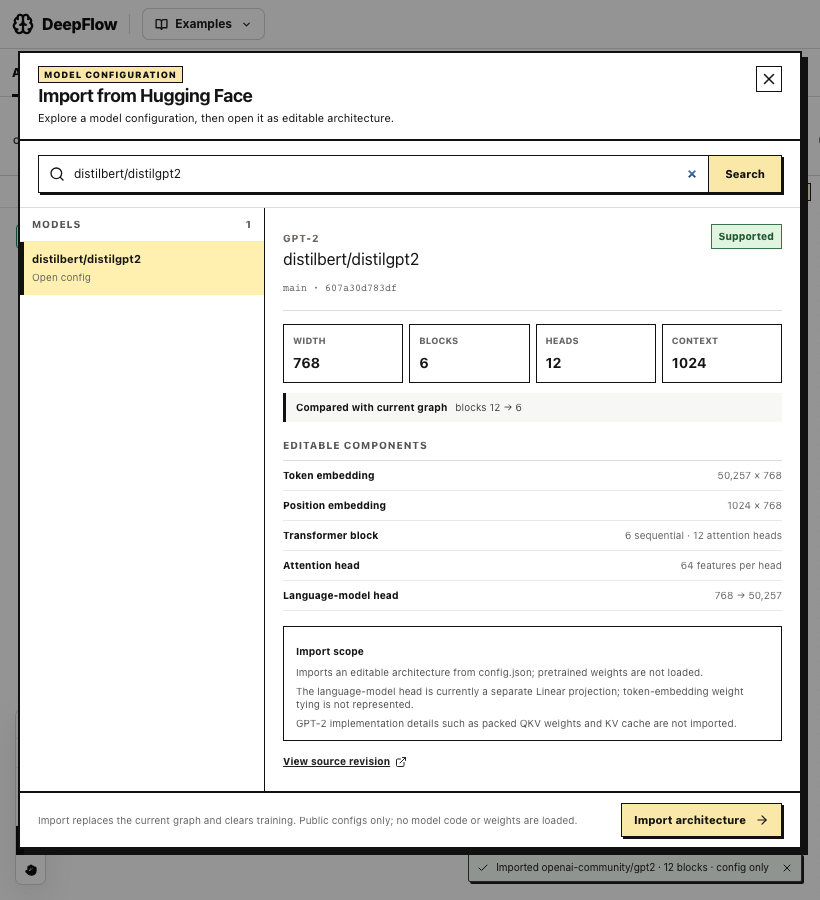
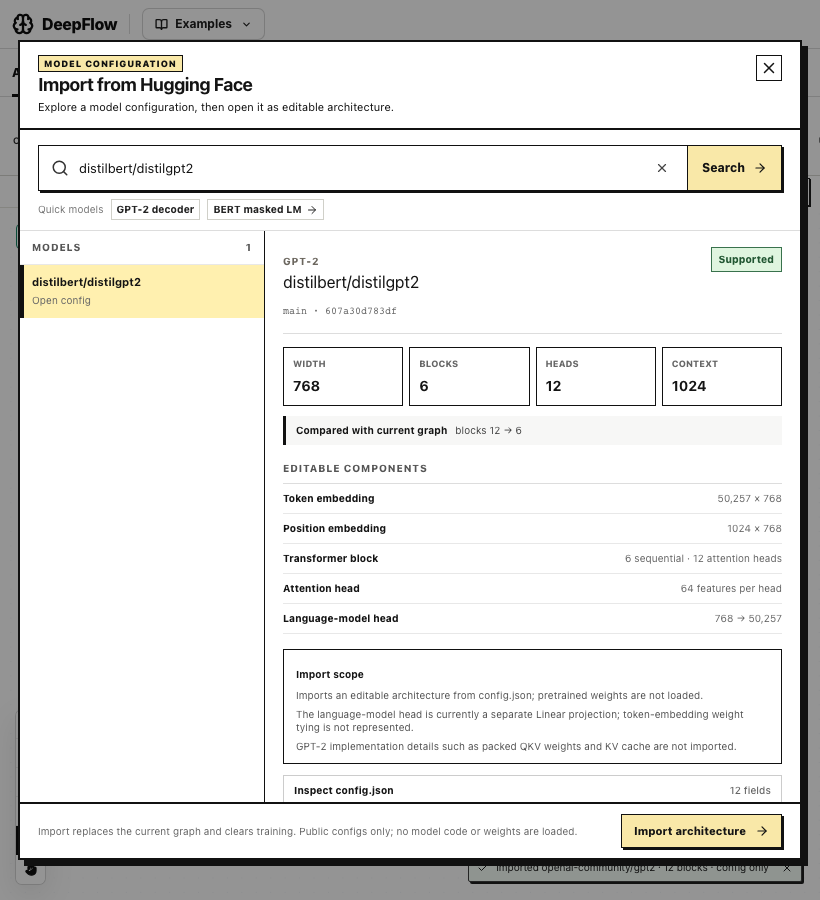
Polish Hugging Face import UI and model examples

Changed region(s): [[0.0, 0.0311, 1.0, 0.9644], [0.7622, 0.5289, 0.9451, 0.7156], [0.8537, 0.2489, 0.9756, 0.3111]]

diff --git a/src/components/HuggingFaceImport.jsx b/src/components/HuggingFaceImport.jsx
@@ -69,12 +69,7 @@ export default function HuggingFaceImport({ open, onClose, onImport, currentArch
         if (!nextCursor) {
             const direct = parseModelReference(text);
             if (direct && (text.includes('/') || text.startsWith('https://'))) {
-                searchAbort.current?.abort();
-                setSearchBusy(false);
-                setModels([{ id: direct.repoId }]);
-                setCursor(null);
-                setSearchError('');
-                void showPreview(direct);
+                openDirect(direct);
                 return;
             }
         }
@@ -115,6 +110,16 @@ export default function HuggingFaceImport({ open, onClose, onImport, currentArch
         }
     };
 
+    const openDirect = (reference, nextQuery = null) => {
+        searchAbort.current?.abort();
+        setSearchBusy(false);
+        setModels([{ id: reference.repoId }]);
+        setCursor(null);
+        setSearchError('');
+        if (nextQuery) setQuery(nextQuery);
+        void showPreview(reference);
+    };
+
     const confirmImport = async () => {
         if (!preview?.inspection.supported || importBusy) return;
         setImportBusy(true);
@@ -141,11 +146,23 @@ export default function HuggingFaceImport({ open, onClose, onImport, currentArch
                 </header>
 
                 <form className="df-hf-search" onSubmit={doSearch}>
-                    <Search size={16} aria-hidden="true" />
-                    <input ref={searchRef} type="search" aria-label="Search Hugging Face models or paste a model URL"
-                        placeholder="Search models or paste a Hugging Face URL" value={query} onChange={(event) => setQuery(event.target.value)} />
-                    <button type="submit">Search</button>
+                    <div className="df-hf-search-field">
+                        <Search size={18} aria-hidden="true" />
+                        <input ref={searchRef} type="search" aria-label="Search Hugging Face models or paste a model URL"
+                            placeholder="Model name, ID or Hugging Face URL" value={query} onChange={(event) => setQuery(event.target.value)} />
+                        {query && <button className="df-hf-search-clear" type="button" aria-label="Clear model search" title="Clear search"
+                            onClick={() => { setQuery(''); searchRef.current?.focus(); }}><X size={14} /></button>}
+                    </div>
+                    <button className="df-hf-search-submit" type="submit">Search <ArrowRight size={14} aria-hidden="true" /></button>
                 </form>
+                <div className="df-hf-search-example"><span>Quick models</span>
+                    <button type="button" aria-pressed={selectedId === 'openai-community/gpt2'}
+                        onClick={() => openDirect({ repoId: 'openai-community/gpt2' }, 'openai-community/gpt2')}>GPT-2 decoder</button>
+                    <button type="button" aria-pressed={selectedId === 'google-bert/bert-base-uncased'}
+                        onClick={() => openDirect({ repoId: 'google-bert/bert-base-uncased' }, 'google-bert/bert-base-uncased')}>
+                        BERT masked LM <ArrowRight size={12} aria-hidden="true" />
+                    </button>
+                </div>
 
                 <div className="df-hf-body">
                     <div className="df-hf-results" aria-label="Hugging Face model results">
@@ -168,7 +185,7 @@ export default function HuggingFaceImport({ open, onClose, onImport, currentArch
                         {preview && <>
                             <div className="df-hf-preview-head">
                                 <div><span className="df-hf-eyebrow">{inspection.family}</span><h3>{preview.repoId}</h3><span className="df-hf-commit">{preview.requestedRevision} · {preview.commit.slice(0, 12)}</span></div>
-                                <span className={`df-hf-status ${inspection.supported ? 'is-supported' : ''}`}>{inspection.supported ? 'Supported' : 'Unsupported'}</span>
+                                <span className={`df-hf-status ${inspection.supported ? 'is-supported' : ''}`}>{inspection.supported ? 'Supported' : 'Not mapped yet'}</span>
                             </div>
                             {!inspection.supported ? <p className="df-hf-unsupported">{inspection.reason}</p> : <>
                                 <div className="df-hf-facts">
@@ -180,12 +197,16 @@ export default function HuggingFaceImport({ open, onClose, onImport, currentArch
                                 {dimensions.length > 0 && <div className="df-hf-impact" aria-label="Comparison with current architecture">
                                     <strong>Compared with current graph</strong>
                                     {changedDimensions.length ? <p>{changedDimensions.map((item) => `${item.label} ${item.current} → ${item.imported}`).join(' · ')}</p>
-                                        : <p>Same block count, width and heads. The graph may look unchanged; its Hugging Face source will be recorded.</p>}
+                                        : <p>Dimensions match. Import replaces the graph with {inspection.family} components and records their source; an identical layout may look unchanged.</p>}
                                 </div>}
                                 <div className="df-hf-section-title">Editable components</div>
                                 <ul className="df-hf-components">{inspection.components.map((component) => <li key={component.name}><strong>{component.name}</strong><span>{component.detail}</span></li>)}</ul>
                                 <div className="df-hf-limits"><strong>Import scope</strong>{inspection.limitations.map((item) => <p key={item}>{item}</p>)}</div>
                             </>}
+                            <details className="df-hf-config">
+                                <summary>Inspect config.json <span>{Object.keys(preview.config).length} fields</span></summary>
+                                <pre>{JSON.stringify(preview.config, null, 2)}</pre>
+                            </details>
                             <a className="df-hf-external" href={preview.url} target="_blank" rel="noopener noreferrer">View source revision <ExternalLink size={12} /></a>
                         </>}
                     </div>

diff --git a/src/components/hugging-face-import.css b/src/components/hugging-face-import.css
@@ -7,11 +7,20 @@
 .df-hf-header span { font-size: 11px; line-height: 1.4; }
 .df-hf-close { display: grid; place-items: center; flex-shrink: 0; width: 26px; height: 26px; border: 1px solid #111; background: #fff; }
 .df-hf-close:hover { background: #f6d9d9; }
-.df-hf-search { display: flex; align-items: center; gap: 9px; margin: 14px 18px; height: 38px; padding-left: 10px; border: 1.5px solid #111; background: white; }
+.df-hf-search { display: flex; align-items: stretch; margin: 15px 18px 8px; min-height: 46px; border: 1.5px solid #111; background: #fff; }
 .df-hf-search:focus-within { box-shadow: 2px 2px 0 #111; }
-.df-hf-search input { min-width: 0; flex: 1; height: 100%; border: 0; outline: 0; background: transparent; font-size: 12px; }
-.df-hf-search button { align-self: stretch; padding: 0 16px; border-left: 1.5px solid #111; background: #f9e8a8; font-size: 11px; font-weight: 800; }
-.df-hf-search button:hover { background: #f2d56d; }
+.df-hf-search-field { display: flex; align-items: center; gap: 10px; flex: 1; min-width: 0; padding: 0 12px; }
+.df-hf-search-field > svg { flex: 0 0 auto; color: #333; }
+.df-hf-search input { min-width: 0; flex: 1; height: 42px; border: 0; outline: 0; background: transparent; color: #111; font-size: 13px; }
+.df-hf-search input::-webkit-search-cancel-button { display: none; }
+.df-hf-search-clear { display: grid; place-items: center; flex: 0 0 auto; width: 25px; height: 25px; border: 1px solid transparent; color: #444; }
+.df-hf-search-clear:hover, .df-hf-search-clear:focus-visible { border-color: #111; background: #f3f3ef; outline: none; }
+.df-hf-search-submit { display: flex; align-items: center; justify-content: center; gap: 8px; min-width: 94px; padding: 0 14px; border-left: 1.5px solid #111; background: #f9e8a8; font-size: 12px; font-weight: 800; }
+.df-hf-search-submit:hover { background: #f2d56d; }
+.df-hf-search-example { display: flex; align-items: center; gap: 7px; margin: 0 18px 10px; color: #777; font-size: 10px; }
+.df-hf-search-example button { display: inline-flex; align-items: center; gap: 4px; padding: 2px 5px; border: 1px solid #d0d0c9; background: #fff; color: #222; font-size: 10px; font-weight: 750; }
+.df-hf-search-example button:hover, .df-hf-search-example button:focus-visible { border-color: #111; background: #fff4cf; outline: none; }
+.df-hf-search-example button[aria-pressed="true"] { border-color: #111; background: #fff0af; }
 .df-hf-body { display: grid; grid-template-columns: minmax(245px, .42fr) minmax(0, 1fr); min-height: 0; flex: 1; border-top: 1px solid #ddd; }
 .df-hf-results, .df-hf-preview { min-height: 220px; overflow-y: auto; }
 .df-hf-results { border-right: 1.5px solid #111; }
@@ -55,6 +64,11 @@
 .df-hf-limits { margin-top: 15px; padding: 10px 12px; border: 1px solid #111; background: #fff; }
 .df-hf-limits strong { font-size: 10px; }
 .df-hf-limits p { margin: 5px 0 0; color: #555; font-size: 10px; line-height: 1.35; }
+.df-hf-config { margin-top: 11px; border: 1px solid #ccc; background: #fff; font-size: 10px; }
+.df-hf-config summary { display: flex; align-items: center; justify-content: space-between; gap: 8px; padding: 7px 10px; cursor: pointer; font-weight: 750; }
+.df-hf-config summary:hover { background: #f7f7f4; }
+.df-hf-config summary span { color: #666; font-weight: 500; }
+.df-hf-config pre { max-height: 210px; margin: 0; padding: 9px 10px; overflow: auto; border-top: 1px solid #ddd; background: #f8f8f6; color: #333; font-size: 10px; line-height: 1.4; }
 .df-hf-external { display: inline-flex; align-items: center; gap: 5px; margin-top: 13px; color: #242424; font-size: 10px; font-weight: 750; text-decoration: underline; }
 .df-hf-import-error { display: flex; align-items: center; justify-content: space-between; gap: 12px; padding: 9px 18px; border-top: 1px solid #a21818; background: #fff2f1; color: #7f1616; font-size: 11px; line-height: 1.35; }
 .df-hf-import-error > div { display: grid; gap: 2px; }
@@ -66,4 +80,4 @@
 .df-hf-import { display: flex; align-items: center; justify-content: center; gap: 9px; flex-shrink: 0; min-height: 34px; padding: 0 12px; border: 1.5px solid #111; background: #f9e8a8; box-shadow: 2px 2px 0 #111; font-size: 11px; font-weight: 800; }
 .df-hf-import:hover:not(:disabled) { background: #f3d66d; }
 .df-hf-import:disabled { opacity: .4; box-shadow: none; cursor: default; }
-@media (max-width: 650px) { .df-hf-backdrop { padding: 8px; } .df-hf-dialog { max-height: calc(100dvh - 16px); } .df-hf-body { grid-template-columns: 1fr; overflow-y: auto; } .df-hf-results { min-height: 80px; max-height: 190px; border-right: 0; border-bottom: 1.5px solid #111; } .df-hf-preview { min-height: 170px; overflow: visible; } .df-hf-facts { grid-template-columns: repeat(2, 1fr); } .df-hf-footer { flex-wrap: wrap; } .df-hf-footer > span:first-child { flex-basis: 100%; } }
+@media (max-width: 650px) { .df-hf-backdrop { padding: 8px; } .df-hf-dialog { max-height: calc(100dvh - 16px); } .df-hf-search { margin: 12px 12px 8px; } .df-hf-search-example { margin: 0 12px 10px; } .df-hf-search-submit { min-width: 80px; padding: 0 9px; } .df-hf-body { grid-template-columns: 1fr; overflow-y: auto; } .df-hf-results { min-height: 80px; max-height: 190px; border-right: 0; border-bottom: 1.5px solid #111; } .df-hf-preview { min-height: 170px; overflow: visible; } .df-hf-facts { grid-template-columns: repeat(2, 1fr); } .df-hf-footer { flex-wrap: wrap; } .df-hf-footer > span:first-child { flex-basis: 100%; } }

diff --git a/src/components/architecture/workspace.css b/src/components/architecture/workspace.css
@@ -3,11 +3,19 @@
 .df-graph-pane { display: flex; flex-direction: column; min-width: 0; min-height: 0; overflow: hidden; }
 .df-graph-pane-header { display: flex; align-items: stretch; min-width: 0; background: #fff; }
 .df-graph-pane-header .df-levels { flex: 1; min-width: 0; }
-.df-import-source { display: inline-flex; align-items: center; gap: 5px; align-self: center; flex: 0 1 auto; min-width: 0; max-width: min(280px, 36%); padding: 3px 7px; margin-right: 9px; border: 1px solid #111; background: #fff5cf; color: #111; font-size: 9px; line-height: 1.2; white-space: nowrap; }
-.df-import-source > span { flex-shrink: 0; font-weight: 800; text-transform: uppercase; letter-spacing: .035em; }
-.df-import-source > strong { min-width: 0; overflow: hidden; text-overflow: ellipsis; font-weight: 650; }
-.df-import-source-short { display: none; }
-@media (max-width: 900px) { .df-import-source { max-width: 35%; } .df-import-source > span { font-size: 0; } .df-import-source > span::after { content: 'HF'; font-size: 9px; } .df-import-source-full { display: none; } .df-import-source-short { display: block; } }
+.df-import-source { display: inline-flex; align-items: stretch; align-self: center; flex: 0 1 auto; width: max-content; min-width: 0; max-width: min(330px, 42%); height: 28px; margin: 2px 10px 2px 0; border: 1px solid #111; background: #fff; box-shadow: 1px 1px 0 #111; color: #111; text-decoration: none; white-space: nowrap; }
+.df-import-source:hover, .df-import-source:focus-visible { background: #fff9e8; outline: none; box-shadow: 2px 2px 0 #111; }
+.df-import-source-mark { display: grid; place-items: center; width: 27px; flex: 0 0 27px; border-right: 1px solid #111; background: #f9e8a8; font-size: 10px; font-weight: 900; letter-spacing: -.04em; }
+.df-import-source-copy { display: flex; flex-direction: column; justify-content: center; gap: 1px; min-width: 0; padding: 0 7px; }
+.df-import-source-kicker { color: #555; font-size: 8px; font-weight: 750; line-height: 1; }
+.df-import-source-copy strong { display: block; min-width: 0; overflow: hidden; text-overflow: ellipsis; font-size: 10px; font-weight: 800; line-height: 1.1; }
+.df-import-source-copy .df-import-source-short { display: none; }
+.df-import-source > svg { align-self: center; flex: 0 0 auto; margin: 0 6px 0 1px; }
+.df-architecture-split.is-split .df-import-source { max-width: 36%; margin-right: 5px; }
+.df-architecture-split.is-split .df-import-source-kicker, .df-architecture-split.is-split .df-import-source > svg { display: none; }
+.df-architecture-split.is-split .df-import-source-copy .df-import-source-full { display: none; }
+.df-architecture-split.is-split .df-import-source-copy .df-import-source-short { display: block; }
+@media (max-width: 700px) { .df-import-source { max-width: 38%; } .df-import-source-kicker, .df-import-source > svg { display: none; } .df-import-source-copy .df-import-source-full { display: none; } .df-import-source-copy .df-import-source-short { display: block; } }
 .df-architecture-split.is-split .df-levels { padding-left: 10px; padding-right: 8px; }
 .df-architecture-split.is-split .df-levels-hint { display: none; }
 .df-architecture-split.is-split .df-graph-pane.is-active .df-graph-pane-header { box-shadow: inset 2px 0 #111; }

diff --git a/src/components/architecture/ArchitectureWorkspace.jsx b/src/components/architecture/ArchitectureWorkspace.jsx
@@ -1,5 +1,5 @@
 import { useCallback, useEffect, useRef, useState } from 'react';
-import { X } from 'lucide-react';
+import { ExternalLink, X } from 'lucide-react';
 import { useReactFlow } from '@xyflow/react';
 import { ArchitectureStoreProvider, createArchitecturePaneStore, useArchitectureStore, useArchitectureStoreApi } from '../../stores/architectureStore.js';
 import ArchitectureCanvas from './ArchitectureCanvas.jsx';
@@ -57,9 +57,19 @@ function GraphPane({ id, active, onActivate, onClose, registerCommands }) {
             onDropCapture={(event) => { onActivate(); event.currentTarget.focus({ preventScroll: true }); }}>
             <div className="df-graph-pane-header">
                 <LevelTabs />
-                {importSource?.provider === 'huggingface' && <span className="df-import-source" title={`Imported architecture from Hugging Face: ${importSource.repoId} at ${importSource.commit}. Weights were not loaded.`}>
-                    <span>HF import</span><strong className="df-import-source-full">{importSource.repoId}</strong><strong className="df-import-source-short">{importSource.repoId.split('/').at(-1)}</strong>
-                </span>}
+                {importSource?.provider === 'huggingface' && <a className="df-import-source"
+                    href={`https://huggingface.co/${importSource.repoId}/tree/${encodeURIComponent(importSource.commit)}`}
+                    target="_blank" rel="noopener noreferrer"
+                    aria-label={`View imported Hugging Face source ${importSource.repoId}`}
+                    title={`Imported from ${importSource.repoId} at ${importSource.commit}. Configuration only; weights were not loaded.`}>
+                    <span className="df-import-source-mark" aria-hidden="true">HF</span>
+                    <span className="df-import-source-copy">
+                        <span className="df-import-source-kicker">Imported from Hugging Face</span>
+                        <strong className="df-import-source-full">{importSource.repoId}</strong>
+                        <strong className="df-import-source-short">{importSource.repoId.split('/').at(-1)}</strong>
+                    </span>
+                    <ExternalLink size={11} aria-hidden="true" />
+                </a>}
                 {onClose && <button type="button" className="df-side-close" onClick={onClose} aria-label="Close side view" title="Close side view"><X size={13} strokeWidth={3} /></button>}
             </div>
             <RepeatIterationBar />
